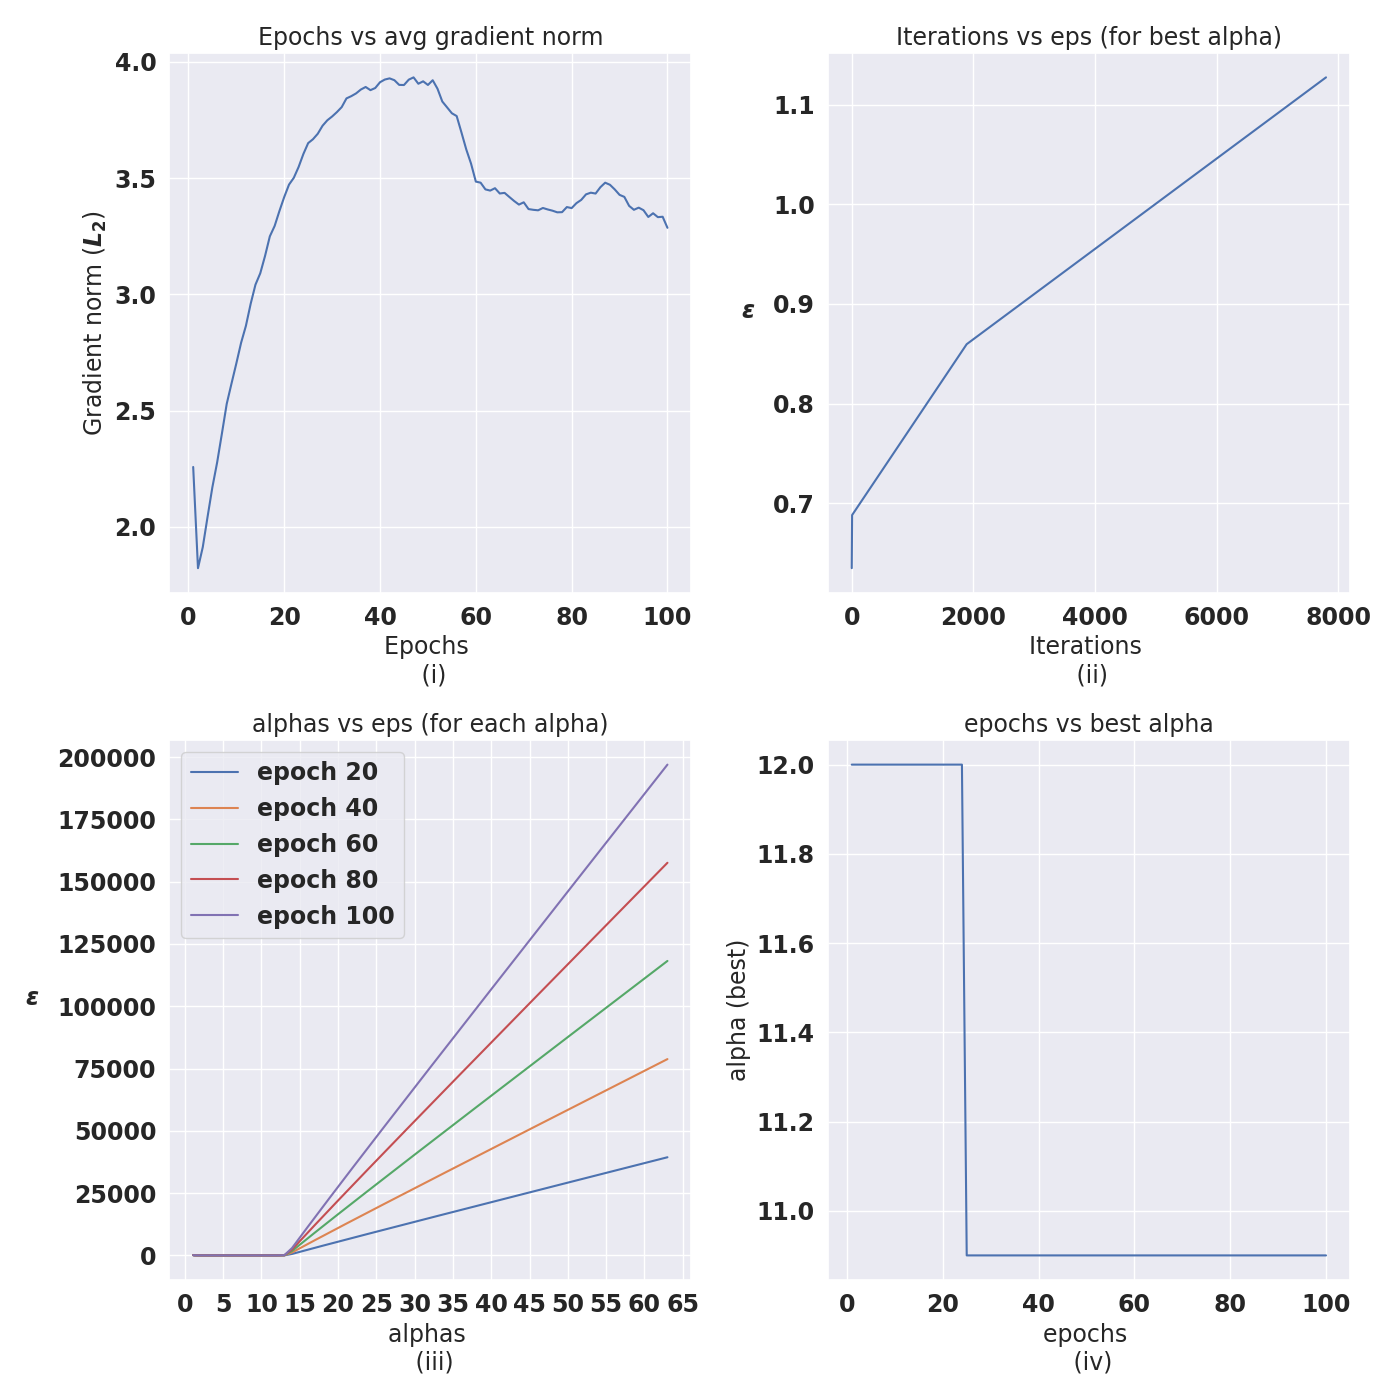
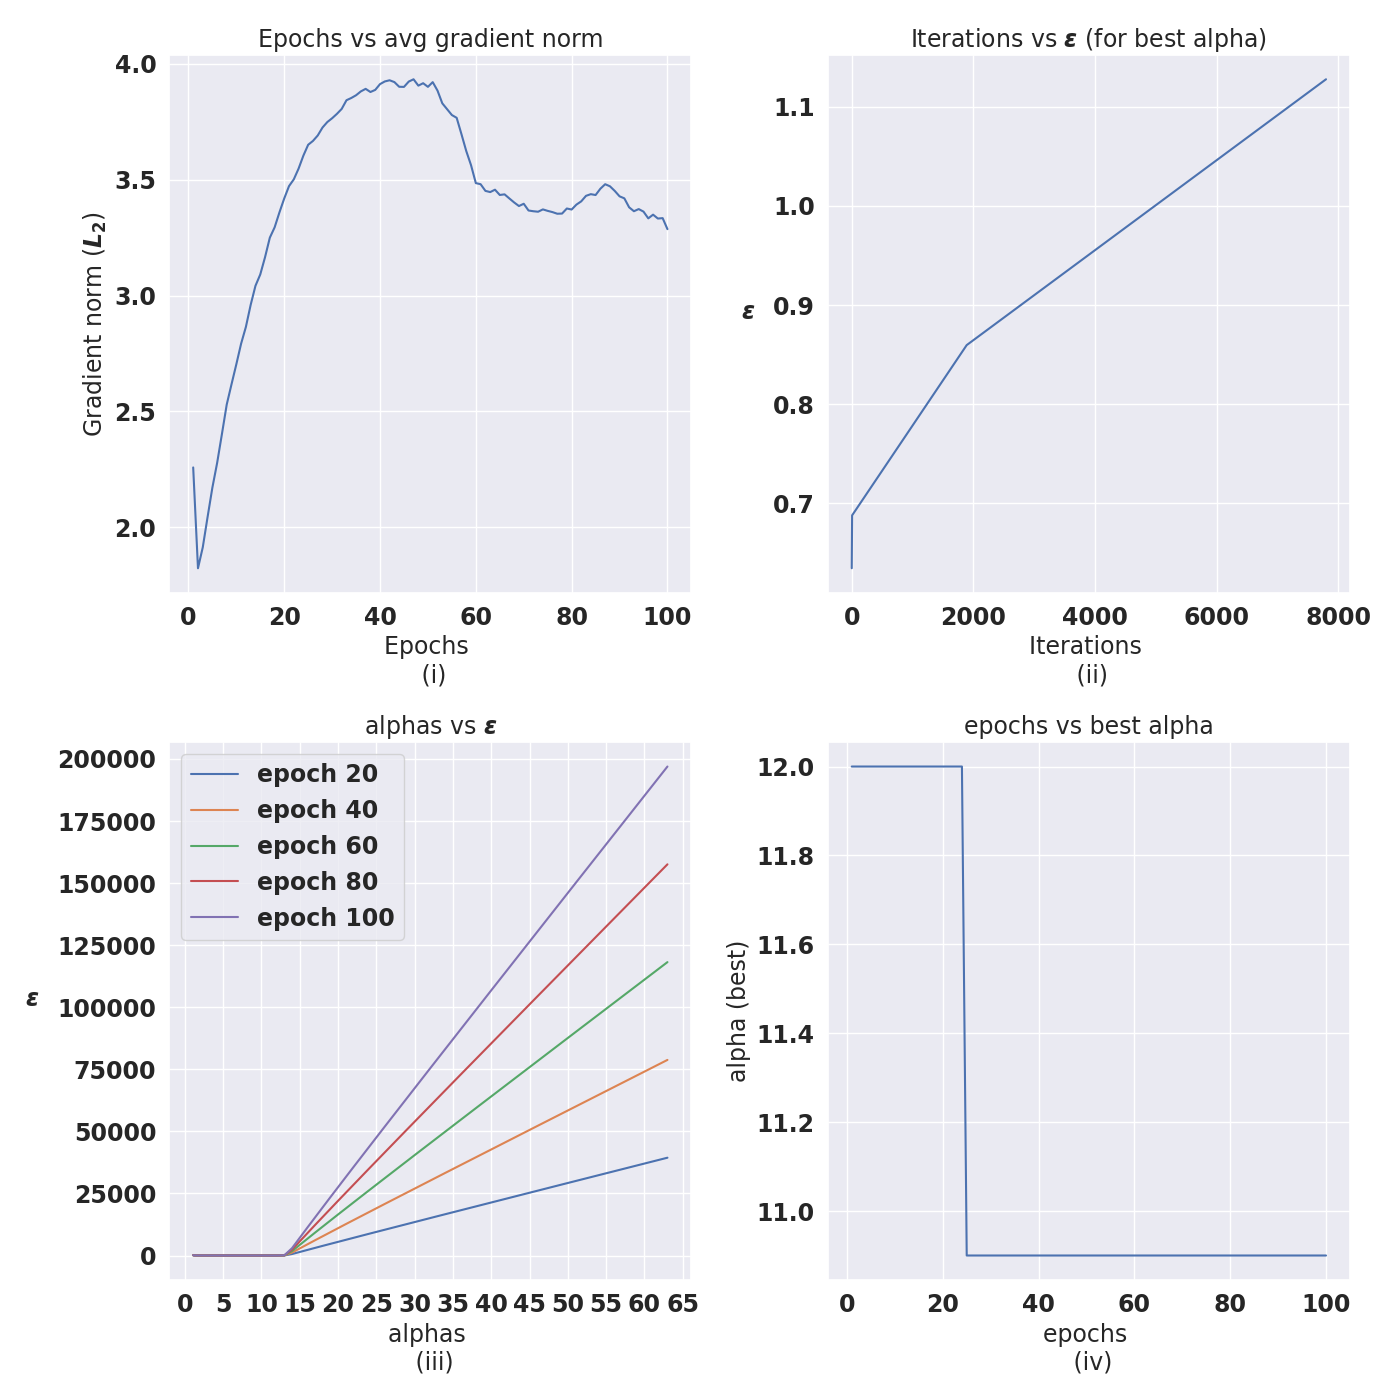
slight change in plot

diff --git a/dpsgd_jax.py b/dpsgd_jax.py
@@ -329,14 +329,14 @@ axs[0, 0].set_ylabel('Gradient norm ($L_{2}$)')
 x = np.arange(len(eps_spent_arr))
 axs[0, 1].plot(x, eps_spent_arr)
 axs[1, 0].set_xticks(np.arange(0, len(x), 2000))
-axs[0, 1].set_title('Iterations vs eps (for best alpha)')
+axs[0, 1].set_title('Iterations vs $\epsilon$ (for best alpha)')
 axs[0, 1].set_xlabel('Iterations \n (ii)')
 axs[0, 1].set_ylabel('$\epsilon$\t', rotation=0)
 
 # Plot 3 - alphas vs eps spent (plotted for every 10th iteration)
 for i in range(len(eps_alpha_arr)):
     axs[1, 0].plot(alphas, eps_alpha_arr[i], label='epoch '+str((i+1)*20))
-axs[1, 0].set_title('alphas vs eps (for each alpha)')
+axs[1, 0].set_title('alphas vs $\epsilon$')
 axs[1, 0].set_xticks(np.arange(0, np.max(alphas)+5, 5))
 axs[1, 0].set_xlabel('alphas \n (iii)')
 axs[1, 0].set_ylabel('$\epsilon$\t', rotation=0)
